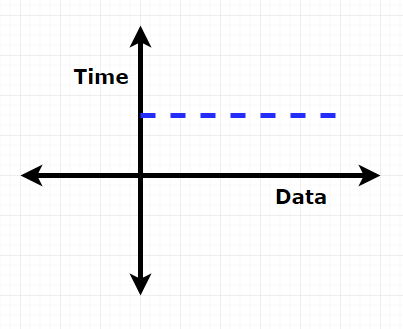
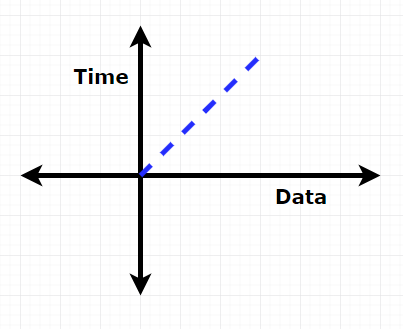
249th commit : big-o notation 정리중2....

diff --git a/01_cs-basic/data-structure/00_big-o-notation.md b/01_cs-basic/data-structure/00_big-o-notation.md
@@ -12,7 +12,7 @@ F(int[] a) {
 위의 함수를 보면 첫번째 배열 방의 값이 0인지를 확인하고, 인자로 받는 배열 방이 크기에 상관없이 언제나 일정한 속도로 결과를 반환한다. 이러한 경우
 이 알고리즘을 O(1)의 시간 복잡도를 가진다라고 표현한다.
 
-[O(n)]()
+![O(n)]()
 
 0(1) 알고리즘을 그래프로 그려보면 가로축이 데이터, 세로축을 처리 시간이라고 할 때 데이터가 증가함에 따 성능에 변함이 없다.
 
@@ -44,4 +44,10 @@ F(int[] n) {
 
 위의 함수를 보면 n개의 데이터를 입력받고 n번 루프를 돌게 되고, 또 그 안에서 n번의 루프를 다시 돌게 된다.
 
-위의 함수를 알기 쉽게 그림으로 나타내면 n개의 데이터를 입력받으면 첫번째 루프에서 n번 돌면서 각각의 엘리먼트에서 n번씩 또 반복을 하게된다. 즉, 처리 횟수가 n을 가로, 세로 길이로 가지는 면적만큼이 된다. n이 1씩 증가할 때 마다 가로, 세로 줄이 증가 하게된다.
+![O(n^2)]()
+
+위의 함수를 알기 쉽게 그림으로 나타내면 n개의 데이터를 입력받으면 첫번째 루프에서 n번 돌면서 각각의 엘리먼트에서 n번씩 또 반복을 하게된다. 즉, 처리 횟수가 n을 가로, 세로 길이로 가지는 면적만큼이 된다. n이 1씩 증가할 때 마다 가로, 세로 줄이 증가 하게 되고 데이터가 커지면 커질 수록 처리시간의 부담이 커지게 된다.
+
+![O(n^2)2]()
+
+O(n<sup>2</sup>) 알고리즘을 그래프로 그려보면 처음에는 데이터 증가에 따라 조금씩 상승하다가 나중에는 데이터를 하나 추가할 때마다 점점더 그래프의 기울기가 급격히 증가하는 것을 알 수 있다.
